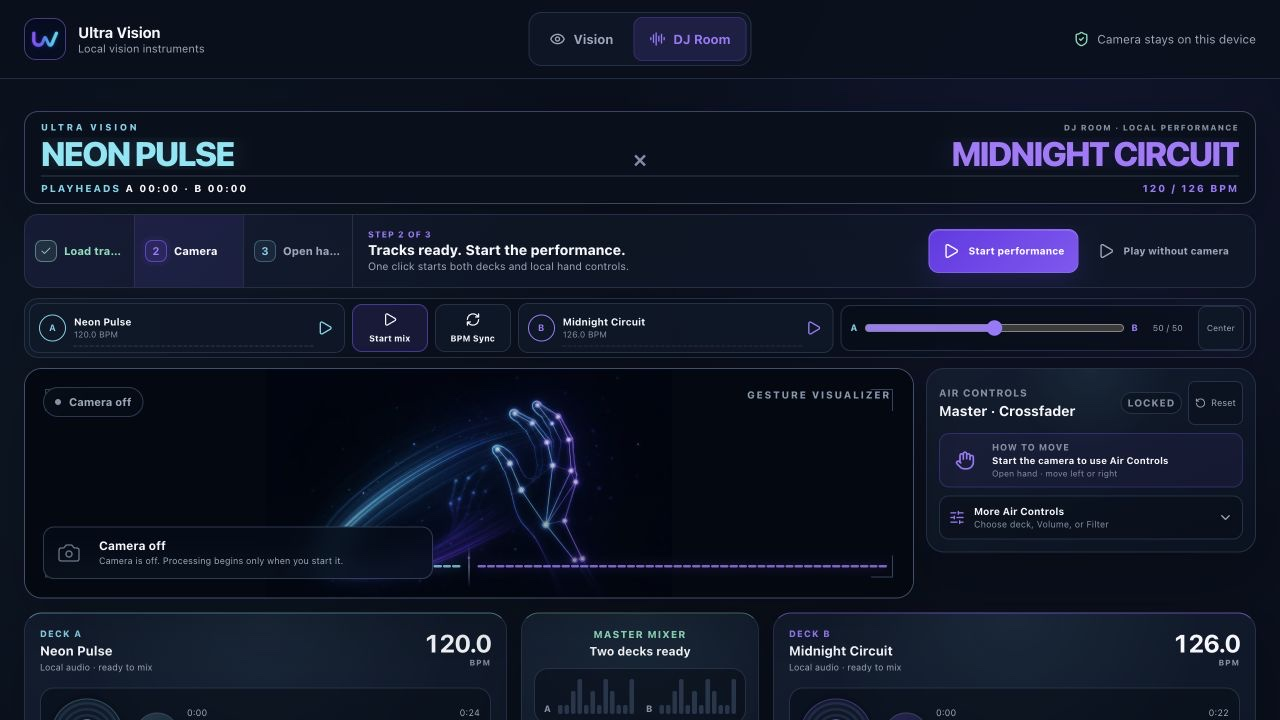
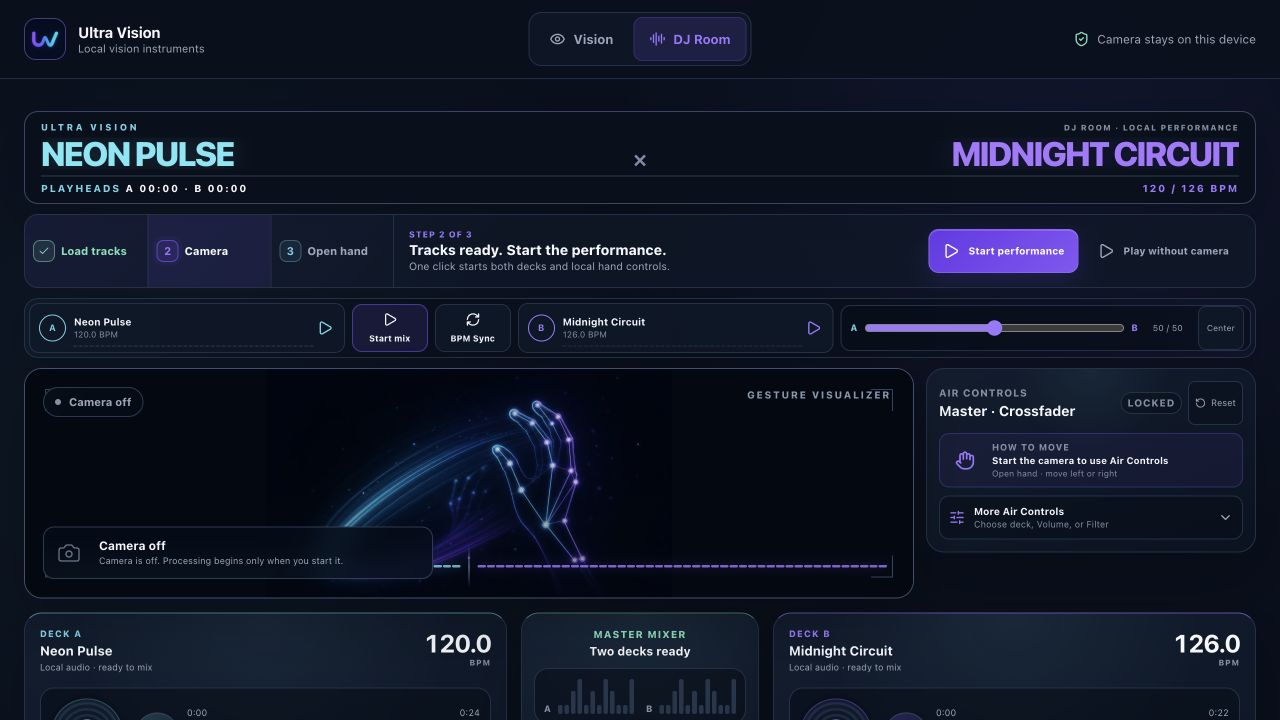
docs: prepare the v0.2.0 release candidate

Changed region(s): [[0.0312, 0.3056, 0.5312, 0.3972]]

diff --git a/docs/TESTING.md b/docs/TESTING.md
@@ -7,7 +7,7 @@ npm ci
 npm run check
 ```
 
-`npm run check` runs the unit and integration suite with coverage, lint, the production build, and the high-severity dependency audit. Use `npm test` for a faster feedback loop while developing. Run the real-browser camera contract separately after installing Chromium as described below.
+`npm run check` runs the unit and integration suite with coverage, lint, a production build, the initial-JavaScript budget, and the high-severity dependency audit. Use `npm test` for a faster feedback loop while developing. Run the real-browser camera contract separately after installing Chromium as described below.
 
 ## Deterministic tests
 
@@ -17,14 +17,22 @@ Coverage cannot fall below the checked-in project floor: 80% statements, 72% bra
 
 ## Real-browser camera and mobile contracts
 
-Install Ultra Vision's pinned Chromium build once, then run the camera contract:
+Install Ultra Vision's pinned Chromium build once, then run the required browser gate:
 
 ```bash
 npx playwright install chromium
-npm run test:camera
+npm run test:browser
 ```
 
-The command builds and serves the production application on `127.0.0.1`, grants camera access to Chromium's synthetic device, and runs the real MediaPipe JavaScript, WASM, and verified model pipeline. It also exercises the First Mix experience at phone widths. It proves:
+Focused commands remain available while developing:
+
+```bash
+npm run test:camera
+npm run test:camera:hand
+npm run test:accessibility
+```
+
+The required command builds and serves the production application once on `127.0.0.1`, then runs the real MediaPipe JavaScript, WASM, verified model pipeline, generated positive palm, mobile First Mix checks, keyboard path, and automated accessibility scans. It proves:
 
 - camera startup reaches a live MediaStream and decoded video frames;
 - MediaPipe processes frames and sizes the landmark canvas to the video;
@@ -35,10 +43,29 @@ The command builds and serves the production application on `127.0.0.1`, grants 
 - application page errors, unexpected console errors, failed requests, and unapproved external origins fail the test;
 - the generated demo reaches manual playback without requesting camera access;
 - generated demo tracks loop so a cold vision-model download cannot end the demo before hand controls are ready;
-- the mobile performance bar remains reachable after scrolling, exposes 44px controls, and has no horizontal overflow at 390 CSS pixels; and
-- the first-mix and performance controls reflow without horizontal overflow at 320 CSS pixels.
+- the mobile performance bar remains reachable after scrolling, exposes 44px controls, and has no horizontal overflow at 390 CSS pixels;
+- the first-mix and performance controls reflow without horizontal overflow at 320 CSS pixels;
+- the primary tabs and first-mix CTA are reachable in keyboard order;
+- cooperative demo generation creates no browser long task of 50 ms or more; and
+- the camera-off DJ Room, loaded demo, camera-off Vision workspace, and 390px loaded state have no automated WCAG A/AA violations reported by axe-core.
 
-The required harness uses Chromium's non-personal test pattern as a zero-hand negative case. A separate generated open-palm candidate is documented in [`e2e/fixtures/README.md`](../e2e/fixtures/README.md), but its test is intentionally marked `fixme`: the current single-frame fixture reaches the live pipeline without producing stable hand detection. It is excluded from `npm run test:camera` and must not be cited as passing evidence. The required contract does not prove hand-detection quality, a physical device's permission UX, Safari or Firefox behavior, deployed `vercel.json` headers, GPU performance, long-session stability, or accuracy across lighting, motion, devices, and people. Those remain separate checks. The contract deliberately exercises the production model URLs, so a sustained upstream outage will also fail the check; CI retries once to distinguish a transient network fault. It runs with one worker and uploads a trace and synthetic-only failure screenshot when it fails.
+The focused `npm run test:camera` harness uses Chromium's non-personal test
+pattern as a zero-hand negative case. `npm run test:camera:hand` is its positive
+companion: a generated, provenance-documented open palm is streamed through
+Chromium's file-backed camera and the shipped MediaPipe model, then the test
+confirms that the crossfader becomes armed without jumping away from center. The
+required `npm run test:browser` command runs both focused camera projects plus
+the accessibility project in one Playwright invocation so the production build
+is shared while each project's evidence remains explicit.
+
+Neither contract proves general hand-detection quality, a physical device's
+permission UX, Safari or Firefox behavior, deployed `vercel.json` headers, GPU
+performance, long-session stability, or accuracy across lighting, motion,
+devices, and people. Those remain separate checks. The contracts deliberately
+exercise the production model URLs, so a sustained upstream outage will also
+fail the check; CI retries once to distinguish a transient network fault. They
+run with one worker and upload a trace and synthetic-only failure screenshot
+when they fail.
 
 ## Manual browser matrix
 
@@ -58,17 +85,27 @@ For each browser, verify:
 
 ## Camera automation strategy
 
-The harness has three layers:
+The harness has four layers:
 
 1. Generated landmark-coordinate cases and React integration tests drive pure gesture, permission, recovery, and lifecycle logic on every pull request. A standalone JSON trace corpus remains roadmap work.
 2. The production-build Chromium contract runs a zero-hand test pattern through real MediaPipe and the mobile First Mix checks on every pull request.
-3. The documented generated open-palm candidate remains a `fixme` until it detects reliably; a future measured detector-quality corpus can extend it only after representation, provenance, and review rules are defined.
+3. The generated open-palm companion runs one privacy-safe positive frame through
+   the real shipped model and verifies no-jump pickup. A future measured
+   detector-quality corpus can extend it only after representation, provenance,
+   and review rules are defined.
+4. The axe-core project scans representative desktop and mobile camera-off states
+   against WCAG A/AA rules and proves the primary keyboard path. Manual assistive
+   technology and physical-device checks remain separate release evidence.
 
 Do not commit a contributor's face or room recording. Crop or generate hand-only fixtures and document their provenance.
 
 ## Performance targets
 
-These are release targets until measured and published:
+The production build keeps initial JavaScript below 96 KiB gzip and requires MediaPipe to remain in a deferred chunk. This protects the camera-off first mix from paying the computer-vision parsing cost before a user asks for hand tracking.
+
+The camera requests at most 30 FPS and the runtime independently caps model inference at 30 FPS even if a device supplies frames faster. Faster video timestamps still refresh the stall watchdog, so intentionally skipped inference frames cannot be mistaken for a frozen camera.
+
+The following runtime targets still require measured device evidence:
 
 - at least 24 camera frames per second on a current laptop;
 - p95 gesture-to-control response below 100 ms;

diff --git a/ROADMAP.md b/ROADMAP.md
@@ -1,34 +1,57 @@
 # Ultra Vision roadmap
 
-The roadmap is organized around product outcomes, not feature volume.
+The roadmap is organized around product outcomes, not feature volume. Checked
+items are implemented in the current release candidate; they do not imply that a
+Git tag or GitHub Release exists.
 
-## Now — make the first mix undeniable
+## Release candidate — v0.2.0 (not tagged)
 
-- Zero-setup demo tracks and a guided first-run path.
-- Intentional gesture clutch and no-jump takeover for every control.
-- Deterministic camera, gesture, audio, and permission tests.
-- Current screenshots, release notes, contributor docs, and a tagged release.
-- Measured startup time, frame rate, control latency, and 30-minute stability.
+- [x] Two focused product surfaces: DJ Room and Vision.
+- [x] Generated demo tracks, local track loading, two-deck playback, filtering,
+      channel levels, crossfading, and reversible BPM-rate matching.
+- [x] A guided first mix with explicit camera-off and recovery paths.
+- [x] Open-palm clutch, relative no-jump takeover, and safe gesture release.
+- [x] Deterministic camera, gesture, audio, permission, and lifecycle tests.
+- [x] Privacy-safe real-browser camera contracts for zero-hand and generated
+      open-palm cases.
+- [x] Contributor, architecture, testing, security, and model-boundary docs.
 
-## Next — make it musically intelligent
+## Release gate — before creating the v0.2.0 tag
 
-- Waveforms, beat positions, downbeats, and confidence-aware BPM analysis.
-- Phase-aware sync against one shared transport clock.
-- Local calibration profiles and dominant-hand selection.
-- Keyboard performance shortcuts and a compact mobile master strip.
-- Replay Studio UI for the completed privacy-safe post-master recording foundation.
+- [ ] Merge the reviewed release candidate into `main` with a clean public history.
+- [ ] Run `npm ci`, `npm run check`, and `npm run test:browser` from the exact
+      release commit.
+- [ ] Complete a physical-camera and real-audio smoke pass in current Chrome,
+      including no-jump pickup, filter return to 50%, stop, and restart.
+- [ ] Verify the production Vercel deployment resolves to the exact release commit
+      and has no relevant browser-console errors.
+- [ ] Confirm screenshots, changelog entries, limitations, and model claims match
+      the shipped interface.
+- [ ] Create the `v0.2.0` tag and GitHub Release only after every gate above passes.
+
+## Next — make mixing more musically intelligent
+
+- [ ] Decode track waveforms and add confidence-aware beat and downbeat positions.
+- [ ] Add phase-aware sync against one shared transport clock; keep current BPM
+      matching honestly labeled until then.
+- [ ] Add local calibration profiles and dominant-hand selection without storing
+      camera frames.
+- [ ] Add keyboard performance shortcuts and a documented shortcut reference.
+- [ ] Build Replay Studio UI on the existing privacy-safe post-master recording
+      foundation.
+- [ ] Publish measured startup, frame-rate, control-latency, and 30-minute
+      stability results for a documented device/browser matrix.
 
 ## Later — expand the vision instrument
 
-- Optional open-vocabulary grounding behind a separate adapter.
-- Gesture mapping presets and community-authored control packs.
-- Additional local effects with a measured audio-performance budget.
-- A benchmark gallery for devices, browsers, lighting, and camera quality.
+- [ ] Add gesture-mapping presets and community-authored control packs.
+- [ ] Add local effects only with a measured audio-performance budget.
+- [ ] Build a benchmark gallery across devices, browsers, lighting, and camera
+      quality using consented or generated evidence.
+- [ ] Research optional open-vocabulary grounding behind a separate adapter,
+      consent flow, deployment boundary, and model-license review.
 
-## Non-goals
-
-- Uploading camera or music by default.
-- Claiming beat alignment from BPM matching alone.
-- Presenting pixel heuristics as neural-model output.
-- Bundling copyrighted demo music.
-- Making the core DJ experience depend on a large hosted model.
+Ultra Vision will not upload camera or music by default, claim beat alignment from
+BPM matching alone, present pixel heuristics as neural-model output, bundle
+copyrighted demo music, or make the core DJ experience depend on a large hosted
+model.

diff --git a/CONTRIBUTING.md b/CONTRIBUTING.md
@@ -4,9 +4,20 @@ Thanks for helping make camera-driven music interaction safer, clearer, and more
 
 ## Find a useful starting point
 
-- Browse [`good first issue`](https://github.com/kaantaskentt/ultra-vision/issues?q=is%3Aissue+is%3Aopen+label%3A%22good+first+issue%22) tasks for bounded contributions.
-- Use the [issue chooser](https://github.com/kaantaskentt/ultra-vision/issues/new/choose) for a reproducible bug or focused feature proposal.
-- Comment on an existing issue before beginning a large product, audio, camera, or model change so the intended outcome and privacy boundary are clear.
+- Read the unchecked [roadmap](./ROADMAP.md) outcomes and choose the smallest
+  useful slice that matches your skills.
+- Check existing issues, then use the
+  [issue chooser](https://github.com/kaantaskentt/ultra-vision/issues/new/choose)
+  for a reproducible bug, focused feature proposal, setup question, or
+  contribution-scoping question.
+- Before beginning a large product, audio, camera, or model change, open a focused
+  proposal so maintainers can confirm the outcome, evidence plan, and privacy
+  boundary.
+
+There may not always be a pre-labeled starter issue. If you want a bounded first
+contribution, choose **Setup or contribution question** in the issue chooser,
+share the area you want to learn, and ask for help reducing one roadmap outcome
+to a reviewable pull request.
 
 You do not need a camera to contribute. Vision math, gesture state, generated audio, replay lifecycle, documentation, accessibility, and much of the interface can be developed with deterministic inputs.
 
@@ -37,14 +48,18 @@ npm run check
 
 It runs tests with coverage thresholds, lint, the production build, and the high-severity dependency audit.
 
-If your change touches camera startup, MediaPipe assets, video/canvas ownership, capture, or teardown, install Chromium once and run the production-browser contract too:
+If your change touches camera startup, MediaPipe assets, video/canvas ownership,
+capture, teardown, or a visible interaction, install Chromium once and run the
+complete production-browser contract too:
 
 ```bash
 npx playwright install chromium
-npm run test:camera
+npm run test:browser
 ```
 
-This uses a synthetic camera and does not need access to your webcam.
+This uses synthetic cameras and does not need access to your webcam. Focused
+camera, generated-hand, and accessibility commands are documented in
+[docs/TESTING.md](./docs/TESTING.md).
 
 ## Where to work
 
@@ -84,7 +99,8 @@ See [docs/TESTING.md](./docs/TESTING.md) for the browser matrix, deterministic c
 1. Reproduce the problem or state the user outcome.
 2. Add or update a deterministic test before changing camera, gesture, audio, or replay behavior.
 3. Keep the diff focused and update documentation when the shipped behavior or limitation changes.
-4. Run `npm run check`, plus `npm run test:camera` when the camera/runtime boundary changed.
+4. Run `npm run check`, plus `npm run test:browser` when the camera/runtime
+   boundary or a visible interaction changed.
 5. Open a pull request and point reviewers to the best file to inspect first.
 
 For a visible change, attach current evidence at 1280×720 and 390×844. For camera or audio work, include either deterministic fixture evidence or a short description of the real-device flow tested. Do not upload private frames or copyrighted music as evidence.

diff --git a/README.md b/README.md
@@ -57,8 +57,8 @@ BPM Sync matches tempo; it does not claim automatic beat-grid, downbeat, or phas
 
 | Vision | DJ Room |
 | --- | --- |
-| ![Ultra Vision real-time vision analysis](./docs/design/ultra-vision-analysis.jpg) | ![Ultra Vision privacy-safe first-mix readiness flow](./docs/design/ultra-vision-readiness.jpg) |
-| Inspect live landmarks, motion, face signals, and pixel studies. | Choose one mix control, grab it with an open palm, then perform with movement. |
+| ![Ultra Vision camera-off Vision workspace](./docs/design/ultra-vision-analysis.jpg) | ![Ultra Vision privacy-safe first-mix readiness flow](./docs/design/ultra-vision-readiness.jpg) |
+| Start the camera to inspect live landmarks, motion, face signals, and pixel studies. | Choose one mix control, grab it with an open palm, then perform with movement. |
 
 The interface reflows from desktop down to phone-sized viewports. Real camera and audio behavior still depends on the browser and device; the maintained test matrix lives in [docs/TESTING.md](./docs/TESTING.md).
 
@@ -116,16 +116,16 @@ Run the same complete local gate expected before a pull request:
 npm run check
 ```
 
-That command runs the test suite with coverage floors, lint, a production build, and a full dependency audit at the high-severity threshold. CI and CodeQL run on every pull request.
+That command runs the test suite with coverage floors, lint, a production build with an enforced initial-JavaScript budget, and a full dependency audit at the high-severity threshold. MediaPipe is loaded only when camera tracking is requested, so a camera-off first mix does not pay its parsing cost. CI and CodeQL run on every pull request.
 
 Camera-runtime changes also have a hardware-free production-browser contract:
 
 ```bash
 npx playwright install chromium
-npm run test:camera
+npm run test:browser
 ```
 
-It starts the production build with Chromium's synthetic camera and exercises the real MediaStream, MediaPipe WASM/model, canvas handoff, local capture, stop, and restart paths. It does not record a contributor or claim physical-camera accuracy.
+It starts one production build and runs Chromium contracts for the real MediaStream and MediaPipe lifecycle, a generated open-palm pickup, mobile reflow, keyboard focus, and WCAG A/AA checks across the camera-off DJ Room, loaded demo, Vision workspace, and 390px loaded state. It does not record a contributor or claim broad physical-camera accuracy.
 
 - Camera and uploaded media are processed in the active browser tab.
 - File types and sizes are checked before object URLs are created.

diff --git a/CHANGELOG.md b/CHANGELOG.md
@@ -14,6 +14,12 @@ All notable changes to Ultra Vision will be documented here. The project follows
 - Self-hosted, lock-pinned MediaPipe WASM plus byte-length and SHA-256 verification for model downloads.
 - A production-build Chromium camera contract covering real MediaPipe startup, tab handoff, local capture, stop, and restart without personal camera imagery.
 - A dedicated one-worker camera CI job with synthetic-only failure diagnostics.
+- A generated open-palm production-browser contract that proves real MediaPipe
+  reaches gesture pickup without moving the neutral crossfader.
+- A required browser release gate for keyboard focus, WCAG A/AA checks, mobile
+  reflow, camera lifecycle, and the generated-hand happy path.
+- An enforced initial-JavaScript bundle budget and a setup-question issue route
+  for first-time contributors.
 - Contributor guidance for Codex and other coding agents.
 
 ### Fixed
@@ -35,6 +41,10 @@ All notable changes to Ultra Vision will be documented here. The project follows
 - Limited assistive announcements to discrete readiness and gesture-state changes.
 - Replaced private camera evidence and removed screenshots of retired Tempo and Phrase Jump controls.
 - Added recovery when a vision frame fails during processing.
+- Kept camera tracking near a 30 FPS inference budget without weakening the
+  frozen-frame watchdog, including retry after a failed lazy model load.
+- Cancelled in-progress demo synthesis when a newer local track choice or room
+  change supersedes it, so stale generated audio cannot overwrite user intent.
 
 ### Changed
 
@@ -46,3 +56,7 @@ All notable changes to Ultra Vision will be documented here. The project follows
 - Moved deck meters after channel and crossfader gain and added a master limiter.
 - Rebuilt DJ Room around a compact camera-first layout, hardware-style knobs, and a master-first mobile order.
 - Clarified that the live deck display is analyser signal history rather than a precomputed track waveform or beat grid.
+- Deferred MediaPipe until camera use and moved demo synthesis into cooperative,
+  abortable work slices so camera-off startup and first interaction stay responsive.
+- Refreshed the desktop, mobile, and camera-off Vision screenshots and compressed
+  repository artwork without changing its dimensions or intended visual content.

diff --git a/docs/BUILDING_WITH_CODEX.md b/docs/BUILDING_WITH_CODEX.md
@@ -52,7 +52,7 @@ The important part is the order. A passing unit test is not enough for a camera 
 
 At commit `20b9971`, the branch had 77 passing deterministic and React integration tests. Coverage was 62.08% statements, 48% branches, 51.56% functions, and 63.33% lines; CI, CodeQL, lint, build, and the high-severity dependency audit were green. Those numbers are a historical snapshot, not a substitute for running the current `npm run check` command.
 
-The current launch candidate has 152 passing unit and integration tests with 85.18% statement, 79.08% branch, 82.13% function, and 87.19% line coverage. A separate real-browser camera contract exercises the production MediaStream, MediaPipe, canvas, capture, teardown, and restart boundary. The same launch gate also passes lint, the production build, and the full dependency audit with zero known vulnerabilities.
+The current launch candidate has 164 passing unit and integration tests with 85.53% statement, 79.24% branch, 82.05% function, and 87.7% line coverage. A single-build browser gate exercises the production MediaStream and MediaPipe lifecycle, generated open-palm pickup, loaded-demo responsiveness, mobile reflow, keyboard focus, and WCAG A/AA checks. The same launch gate also passes lint, the production build, the enforced initial-JavaScript budget, and the full dependency audit with zero known vulnerabilities.
 
 ## Assumptions that failed
 

diff --git a/SUPPORT.md b/SUPPORT.md
@@ -2,9 +2,16 @@
 
 Ultra Vision is an experimental open-source project maintained in public.
 
-- **Setup or usage question:** start a GitHub Discussion once Discussions are enabled, or open an issue if the documentation is missing something concrete.
+- **Setup, usage, or contribution question:** GitHub Discussions is not currently
+  enabled. Use the
+  [question form](https://github.com/kaantaskentt/ultra-vision/issues/new?template=question.yml)
+  for local setup, testing, architecture, usage, or help choosing a bounded first
+  contribution.
 - **Reproducible bug:** use the bug-report issue form and include browser, operating system, camera state, steps, and console output with private data removed.
 - **Feature proposal:** use the feature-request form and explain the user outcome before suggesting implementation.
 - **Security vulnerability:** follow [SECURITY.md](./SECURITY.md) and use private vulnerability reporting. Never publish an unpatched security issue.
 
-Please do not upload private camera recordings, copyrighted music, secrets, or personally identifying logs.
+Public issues are not a private support channel. Do not upload private camera
+recordings or frames, copyrighted music, secrets, browser profiles, or personally
+identifying logs. Reduce examples to generated or redacted evidence before
+submitting them.

diff --git a/design-qa.md b/design-qa.md
@@ -34,6 +34,15 @@ The two committed screenshots are synthetic, camera-off product evidence and rem
 - Accessibility: the artwork and data-only waveform cues are decorative; track identity remains available in the heading; focus behavior, reduced-motion rules, labels, and visible mobile target sizing are preserved.
 - Browser diagnostics: no warning or error console entries were present in the final loaded state.
 
+### Release refresh
+
+- Re-captured the committed desktop, mobile, and Vision workspace evidence from
+  the current source at `1280×720`, `390×844`, and `1280×720` respectively.
+- Re-ran the single-build browser gate across the camera lifecycle, generated
+  open palm, loaded demo, keyboard focus, WCAG A/AA, and mobile reflow states.
+- Observed no horizontal overflow, relevant console errors, accessibility
+  violations, or demo-generation long task at or above 50 ms.
+
 No actionable `P0`, `P1`, or `P2` design findings remain. A future `P3` enhancement is a short, reduced-motion-aware trail made from recent real landmark frames while the camera is live; the shipped camera-off artwork does not pretend to be live detection.
 
 Final result: passed

diff --git a/.github/pull_request_template.md b/.github/pull_request_template.md
@@ -13,7 +13,7 @@
 ## Verification
 
 - [ ] `npm run check`
-- [ ] `npm run test:camera` when camera, MediaPipe, video/canvas, or capture behavior changed
+- [ ] `npm run test:browser` when camera, MediaPipe, video/canvas, capture, or visible interaction behavior changed
 - [ ] New or changed behavior has a deterministic test, or the reason it cannot is explained below
 - [ ] The failure and recovery path was exercised
 - [ ] 1280×720 and 390×844 were checked when the interface changed
